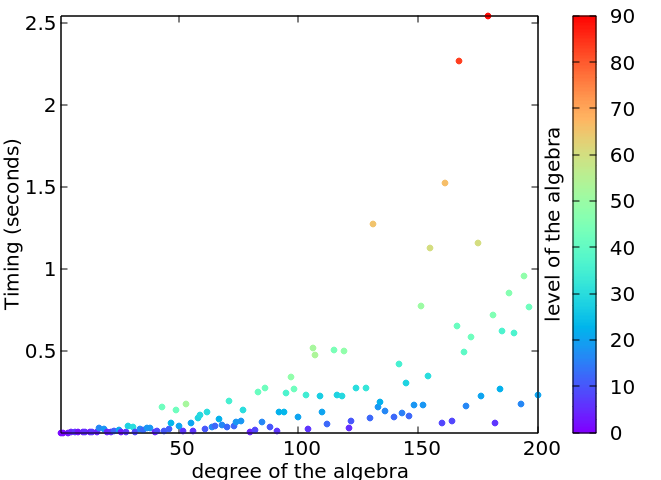
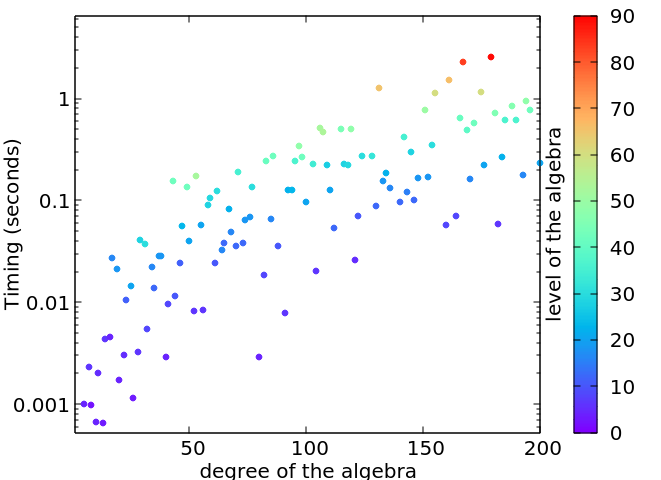
log scale

diff --git a/gf-h90.tex b/gf-h90.tex
@@ -988,7 +988,8 @@ extraction: this takes almost all the time.
 To measure the execution of Algorithm~\ref{algo:decoration}, we let $\ell$ grow
 from $1$ to $200$, and for each $\ell$ not divisible by $p$ such that the $\nu(\ell)$-th Conway
 polynomial is available, we add the time needed to compute the Kummer algebra
-$A_\ell$ and to decore it. We obtain a set of decorated Kummer algebras and for
+$A_\ell$ and to decore it: this gives Figure~\ref{fig:timings-decoration}. We
+obtain a set of decorated Kummer algebras and for
 each pair $(A_\ell, \alpha_\ell), (A_m, \alpha_m)$ of such algebras with
 $\ell\,|\,m$ we measure
 the time needed to embed the corresponding fields $\mathbb{F}_{p^\ell}$ into
